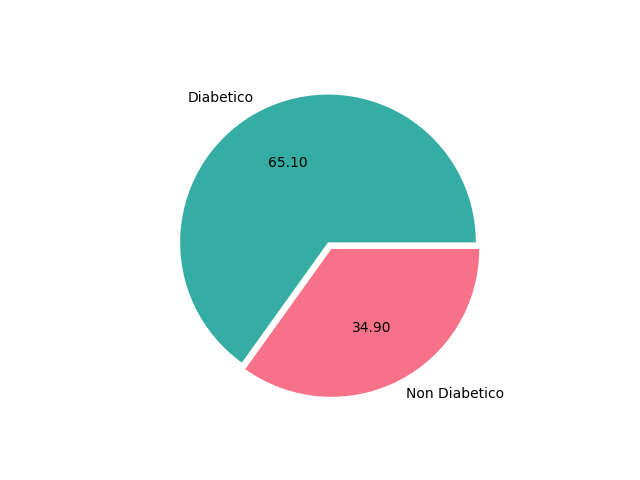
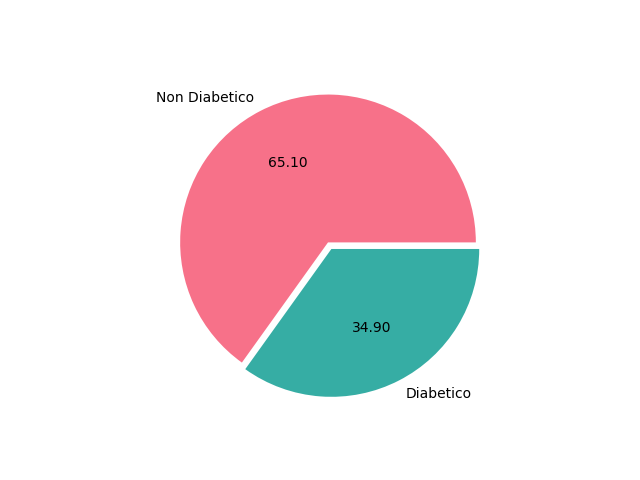
Fixed a typo in pie chart labels

Changed region(s): [[0.2812, 0.1875, 0.7812, 0.8438], [0.25, 0.1875, 0.2812, 0.2188]]

diff --git a/classifiers.py b/classifiers.py
@@ -95,8 +95,8 @@ def find_duplicated_rows(dataset):
 
 
 def is_dataset_balanced(dataset):
-    plt.pie(dataset["Outcome"].value_counts(), labels=["Diabetico", "Non Diabetico"],
-            explode=(0, 0.05), autopct="%0.2f", colors=["#36ada4", "#f77189"])
+    plt.pie(dataset["Outcome"].value_counts(), labels=["Non Diabetico", "Diabetico"],
+            explode=(0, 0.05), autopct="%0.2f", colors=["#f77189", "#36ada4"])
     plt.savefig("images/dataset_balancement.png")
     plt.show()
     plt.close("all")
